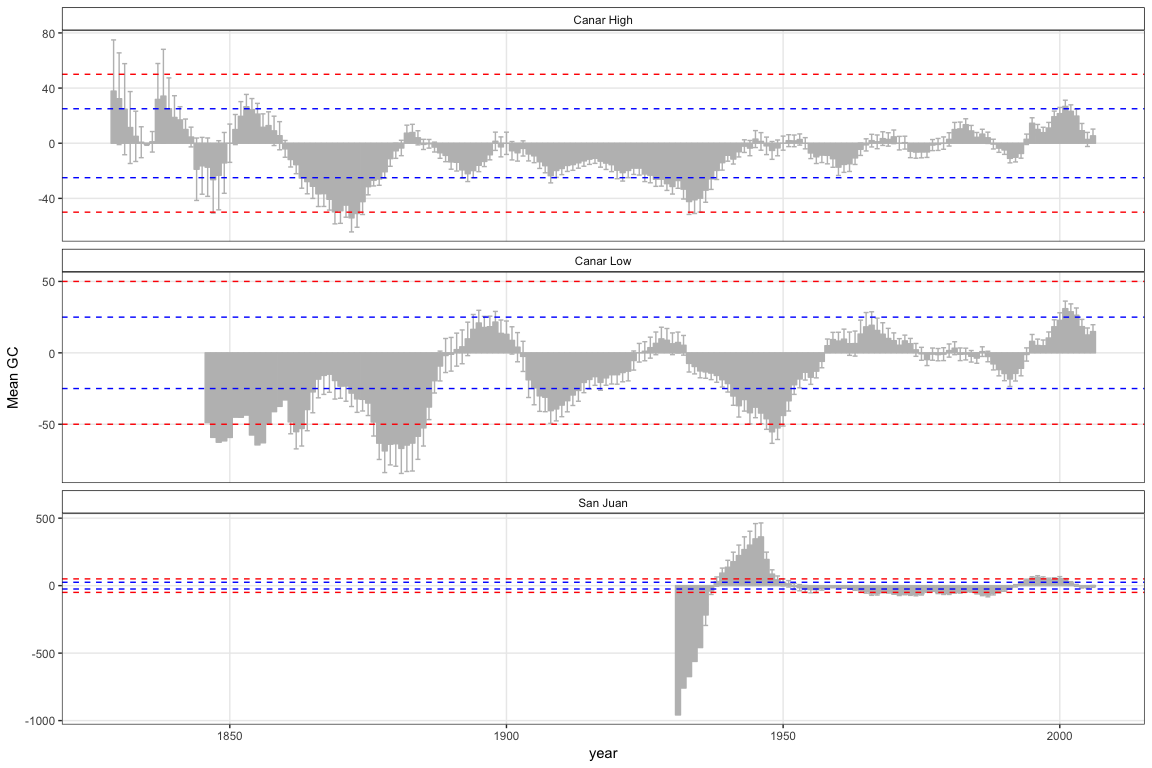
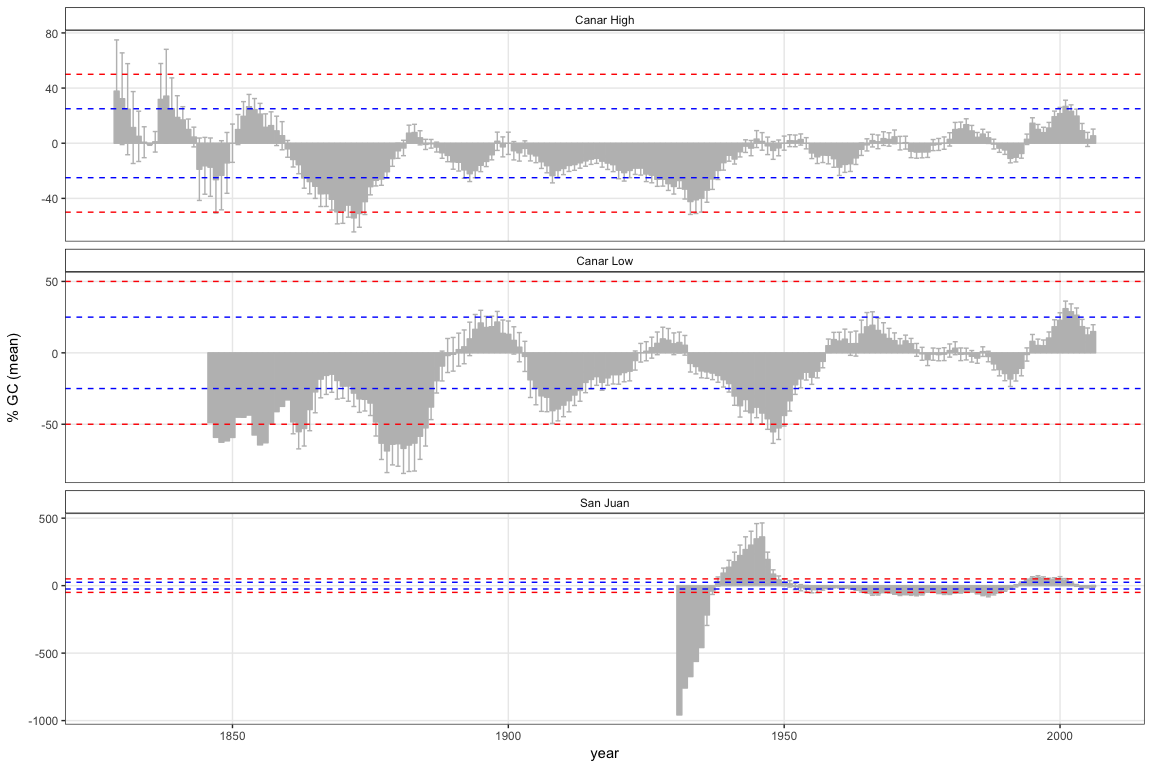
update

diff --git a/analysis/analysis_disturbance_chronos.md b/analysis/analysis_disturbance_chronos.md
@@ -380,7 +380,7 @@ gc_caH <- computeGC(caH_tree, ws=10, prefijo = 'CA')
 gc_sj <- computeGC(sj_tree, ws=10, prefijo = 'SJ')
 ```
 
-### Plot
+### Plot (mean)
 
 ``` r
 # Plot mean value by year 
@@ -418,7 +418,7 @@ gc_todos %>% ggplot(aes(x=year, y=gc_m)) +
                                  'gc_sj' = 'San Juan'))) +
   geom_hline(yintercept=c(25, -25), linetype=2, colour='blue') +
   geom_hline(yintercept=c(50, -50), linetype=2, colour='red') + 
-  ylab('Mean GC') + 
+  ylab('% GC (mean)') + 
   theme(panel.grid.minor = element_blank(), 
         strip.background = element_rect(colour='black', 
                                         fill='white'))
@@ -426,8 +426,28 @@ gc_todos %>% ggplot(aes(x=year, y=gc_m)) +
 
 ![](analysis_disturbance_chronos_files/figure-markdown_github/unnamed-chunk-11-1.png)
 
-Plot (correcting the scale)
-===========================
+### Plot (median)
+
+``` r
+gc_todos %>% ggplot(aes(x=year, y=gc_md)) + 
+  geom_bar(stat='identity', fill='gray', colour='gray') + theme_bw() + 
+  # geom_point() +
+  geom_errorbar(aes(ymin = gc_md - gc_md_se, ymax = gc_md + gc_md_se), colour='gray') +
+  facet_wrap(~site, nrow = 3, scales = 'free_y',
+             labeller=as_labeller(c('gc_caH' = 'Canar High', 
+                                 'gc_caL' = 'Canar Low',
+                                 'gc_sj' = 'San Juan'))) +
+  geom_hline(yintercept=c(25, -25), linetype=2, colour='blue') +
+  geom_hline(yintercept=c(50, -50), linetype=2, colour='red') + 
+  ylab('% GC (median)') + 
+  theme(panel.grid.minor = element_blank(), 
+        strip.background = element_rect(colour='black', 
+                                        fill='white'))
+```
+
+![](analysis_disturbance_chronos_files/figure-markdown_github/unnamed-chunk-12-1.png)
+
+### Plot (correcting the scale) (mean)
 
 ``` r
 # Create a transformation scale 
@@ -436,7 +456,6 @@ Plot (correcting the scale)
 pos_neg_log <- scales::trans_new('signed_log', 
                                  transform = function(x) sign(x)*log(abs(x)),
                                  inverse=function(x) sign(x)*exp(abs(x)))
-
 
 
 # solution for arrange
@@ -455,7 +474,7 @@ a <- gc_todos %>%
                                 # 'gc_sj' = 'San Juan'))) + 
   geom_hline(yintercept=c(25, -25), linetype=2, colour='blue', alpha=.4) +
   geom_hline(yintercept=c(50, -50), linetype=2, colour='red', alpha=.4) + 
-  ylab('Mean GC') + 
+  ylab('% GC (mean)') + 
   theme(panel.grid.minor = element_blank(), 
         strip.background = element_rect(colour='black', 
                                         fill='white'),
@@ -486,10 +505,58 @@ grid.newpage()
 grid.draw(rbind(ggplotGrob(a), ggplotGrob(b), size='last'))
 ```
 
-![](analysis_disturbance_chronos_files/figure-markdown_github/unnamed-chunk-12-1.png)
+![](analysis_disturbance_chronos_files/figure-markdown_github/unnamed-chunk-13-1.png)
 
-Number of trees with %GC &gt; 50%
----------------------------------
+### Plot (correcting the scale) (median)
+
+``` r
+c <- gc_todos %>% 
+  filter(site != 'gc_sj') %>% 
+  ggplot(aes(x=year, y=gc_md)) + 
+  geom_bar(stat='identity', fill='gray', colour='gray') + theme_bw() + 
+  geom_errorbar(aes(ymin = gc_md - gc_md_se, ymax = gc_md + gc_md_se), colour='gray', width=.3, size=.2) +
+  # scale_y_continuous(trans = pos_neg_log) +
+  facet_wrap(~site, nrow = 2,
+             labeller=as_labeller(c('gc_caH' = 'Canar High', 
+                                 'gc_caL' = 'Canar Low'))) +
+                                # 'gc_sj' = 'San Juan'))) + 
+  geom_hline(yintercept=c(25, -25), linetype=2, colour='blue', alpha=.4) +
+  geom_hline(yintercept=c(50, -50), linetype=2, colour='red', alpha=.4) + 
+  ylab('% GC (median)') + 
+  theme(panel.grid.minor = element_blank(), 
+        strip.background = element_rect(colour='black', 
+                                        fill='white'),
+        axis.title.x = element_blank(),
+        axis.text.x = element_blank()) 
+  
+
+
+d <- gc_todos %>% 
+  filter(site == 'gc_sj') %>% 
+  ggplot(aes(x=year, y=gc_md)) + 
+  xlim(layer_scales(a)$x$range$range[1],layer_scales(a)$x$range$range[2]) +
+  geom_bar(stat='identity', fill='gray', colour='gray') + theme_bw() + 
+  geom_errorbar(aes(ymin = gc_md - gc_md_se, ymax = gc_md + gc_md_se), colour='gray', width=.3, size=.2) +
+  scale_y_continuous(trans = pos_neg_log, 
+                     breaks=c(-1000, -100, 0, 100, 500)) +
+  facet_wrap(~site, nrow = 2,
+             labeller=as_labeller(c('gc_sj' = 'San Juan'))) + 
+  geom_hline(yintercept=c(25, -25), linetype=2, colour='blue', alpha=.4) +
+  geom_hline(yintercept=c(50, -50), linetype=2, colour='red', alpha=.4) + 
+  ylab('') + 
+  theme(panel.grid.minor = element_blank(), 
+        strip.background = element_rect(colour='black', 
+                                        fill='white')) 
+
+
+grid.newpage()
+grid.draw(rbind(ggplotGrob(c), ggplotGrob(d), size='last'))
+```
+
+![](analysis_disturbance_chronos_files/figure-markdown_github/unnamed-chunk-14-1.png)
+
+Number of trees with %GC &gt; 50% (mean)
+----------------------------------------
 
 ``` r
 computeGCtrees <- function(gcdf, treshold){ 
@@ -546,7 +613,67 @@ gc_trees %>% ggplot() +
                                         fill='white')) 
 ```
 
-![](analysis_disturbance_chronos_files/figure-markdown_github/unnamed-chunk-13-1.png)
+![](analysis_disturbance_chronos_files/figure-markdown_github/unnamed-chunk-15-1.png)
+
+Number of trees with %GC &gt; 50% (median)
+------------------------------------------
+
+``` r
+computeGCtrees <- function(gcdf, treshold){ 
+  
+  th <- as.numeric(treshold)
+  
+  # Get total tree by year 
+  n_tree <- gcdf %>% group_by(year) %>% summarise(total_tree = length(ntrees)) 
+  
+  # Get n tree with GC positve upper treshold 
+  n_pos <- gcdf %>% dplyr::filter(gc_median > th) %>% group_by(year) %>% summarise(n_pos = length(ntrees)) 
+  
+  # Get n tree with GC negative lower treshold 
+  n_neg <- gcdf %>% dplyr::filter(gc_median < (-1*th)) %>% group_by(year) %>% summarise(n_neg = length(ntrees)) 
+  
+  # Join and compute percentage 
+  outgc <- n_tree %>% 
+    left_join(n_pos, by='year') %>% 
+    left_join(n_neg, by='year') %>% 
+    mutate(per_pos = round((n_pos / total_tree) * 100, 2),
+         per_neg = round((n_neg / total_tree) * 100, 2))
+  
+  return(outgc)
+}
+  
+
+gc_trees<- c()
+
+datasetes <- c('gc_caL', 'gc_caH', 'gc_sj')
+
+for (d in datasetes){ 
+  # get df
+  df <- get(d)
+  
+  au <- df %>% computeGCtrees(treshold = 50) %>% data.frame() %>% mutate(site = paste(d))
+  gc_trees <- rbind(gc_trees, au)
+} 
+
+# secondary axis
+# https://whatalnk.github.io/r-tips/ggplot2-secondary-y-axis.nb.html
+
+# Plot 
+gc_trees %>% ggplot() +
+  geom_bar(aes(x=year, y=per_pos), fill='blue', colour='blue', stat = "identity", position = "dodge") + 
+  geom_bar(aes(x=year, y=(-1)*per_neg), fill='red', colour='red', stat = "identity", position = "dodge") +
+  facet_wrap(~site, nrow = 3, labeller=as_labeller(c('gc_caH' = 'Canar High', 
+                                 'gc_caL' = 'Canar Low',
+                                 'gc_sj' = 'San Juan'))) + 
+  scale_y_continuous(sec.axis = sec_axis(~ ., name = '# trees', breaks = c(0,15,30))) +
+  geom_line(aes(x=year, y=total_tree), colour = 'gray') + 
+  theme_bw() + ylab('% trees GC > 50 % (median)') +
+  theme(panel.grid.minor = element_blank(), 
+        strip.background = element_rect(colour='black', 
+                                        fill='white')) 
+```
+
+![](analysis_disturbance_chronos_files/figure-markdown_github/unnamed-chunk-16-1.png)
 
 References
 ==========
